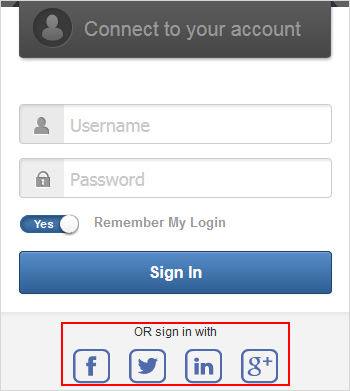
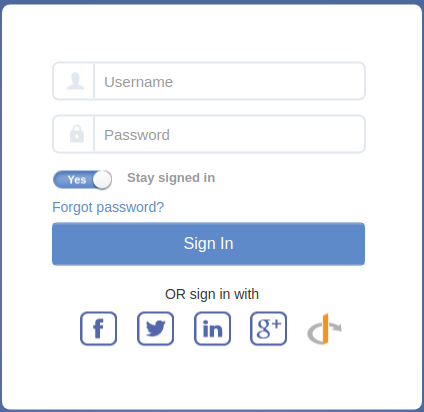
Add OpenId documentation

diff --git a/docs/OAuthIntegration.rst b/docs/OAuthIntegration.rst
@@ -6,8 +6,10 @@ OAuth Integration
 
     Starting from 4.3 version, eXo Platform allows users to log in using 
     their social network accounts, including Facebook, Google+, Twitter, 
-    LinkedIn. To enable the feature, you need to do the main steps 
-    below:
+    LinkedIn.
+    Starting from 6.0 version, you can use an OpenId integration, which is
+    based on OAuth procole.
+    To enable the feature, you need to do the main steps below:
 
     -  Registering an application on the social network you want.
 
@@ -25,7 +27,7 @@ OAuth Integration
 
     -  :ref:`Registering your OAuth application <OAuthAuthentication.RegisteringOAuthApp>`
        How to register your OAuth applications, including Facebook,
-       Google+, Twitter, LinkedIn.
+       Google+, Twitter, LinkedIn, and OpenId
 
     -  :ref:`Setting up eXo Platform <OAuthAuthentication.SettingUpPlatform>`
        Steps to configure eXo Platform that enable the social network with
@@ -200,6 +202,15 @@ Google+
 
 |image13|
 
+OpenId
+~~~~~~~~
+
+The OpenId configuration will depends about which implementation you use, but the steps
+are quite same as for previous vendors :
+You have to create an appliation, provide Authorized Redirect URI, which is
+http://server.local.network.com:8080/portal/openidAuth
+Then, you will be able to collect a client ID, and a client secret, that will be needed
+to configure exo.
 
 .. _OAuthAuthentication.SettingUpPlatform:
 
@@ -245,6 +256,11 @@ you will need to:
 		exo.oauth.google.clientId=GooglePlus_Client_Id
 		exo.oauth.google.clientSecret=GooglePlus_Client_Secret
 
+		## OpenId
+		exo.oauth.openid.enabled=true
+		exo.oauth.openid.clientId=OpenId_Client_Id
+		exo.oauth.openid.clientSecret=OpenId_Client_Secret
+
    In which:
 
    -  ``exo.oauth.{OAuth_Provider}.enabled`` - Enables the integration 
@@ -256,6 +272,32 @@ you will need to:
 
    -  ``exo.oauth.{OAuth_Provider}.clientSecret`` - Client Secret of your
       application.
+
+For OpenId, you need to add 4 more properties which are urls which will be called during the protocol execution.
+Theses urls are implicit in other providers, but as OpenId can be implemented by different ways, we have to provide urls.
+In urls, replace `openid.server.com <openid.server.com>` by the name of your OpenId server.
+
+::
+
+		## OpenId Urls
+		exo.oauth.openid.authenticationURL=https://openid.server.com/authorize
+    exo.oauth.openid.accessTokenURL=https://openid.server.com/token
+    exo.oauth.openid.tokenInfoURL=https://openid.server.com/introspect
+    exo.oauth.openid.userInfoURL=https://openid.server.com/userinfo
+
+
+.. note:: Google provide an OpenId protocol implementation. You can use it by creating an Oauth
+   2.0 client ID (as explained previously), and by using it as openid provider, with theses parameters :
+
+::
+    exo.oauth.openid.enabled=true
+		exo.oauth.openid.clientId=GooglePlus_Client_Id
+		exo.oauth.openid.clientSecret=GooglePlus_Client_Secret
+    exo.oauth.openid.authenticationURL=https://accounts.google.com/o/oauth2/auth
+    exo.oauth.openid.accessTokenURL=https://oauth2.googleapis.com/token
+    exo.oauth.openid.tokenInfoURL=https://www.googleapis.com/oauth2/v2/tokeninfo
+    exo.oauth.openid.userInfoURL=https://openidconnect.googleapis.com/v1/userinfo
+
 
 3. Restart eXo Platform server. Your users should be able to register 
    or log in with their social network accounts.
@@ -280,7 +322,7 @@ following:
 
 ::
 
-    exo.oauth.registraterOnFly=FACEBOOK,GOOGLE,LINKEDIN
+    exo.oauth.registraterOnFly=FACEBOOK,GOOGLE,LINKEDIN,OPENID
 
 The on-the-fly registration option is not turned on for Twitter by
 default. In case of the on-the-fly registration, a random password will
